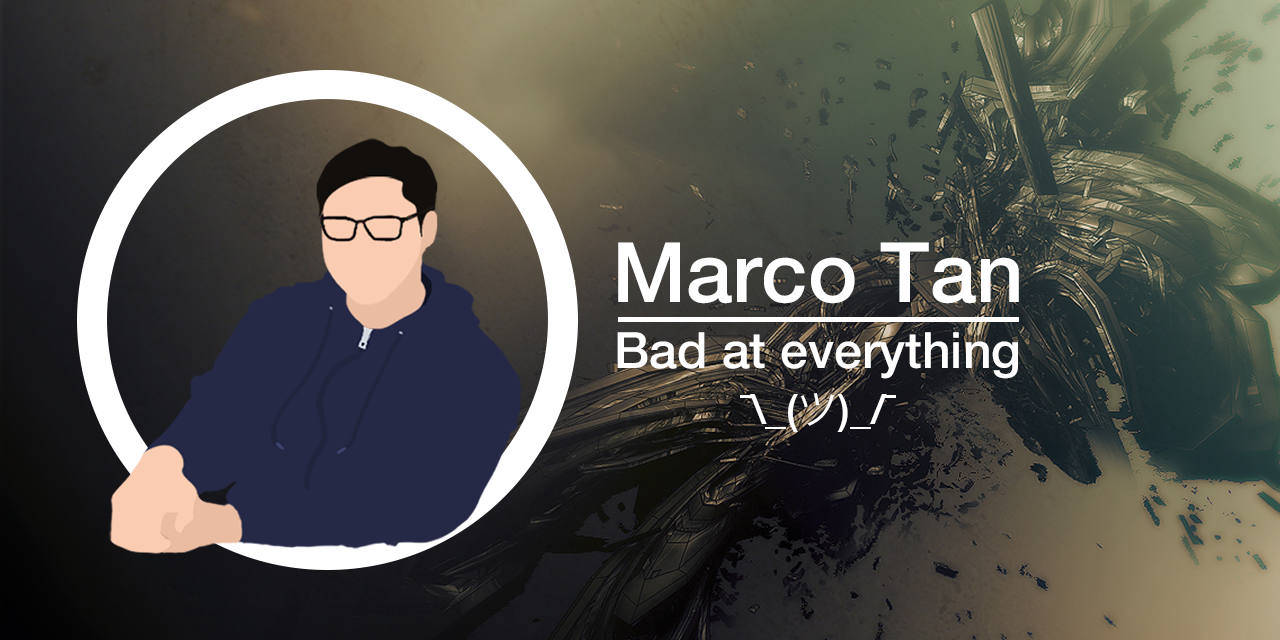
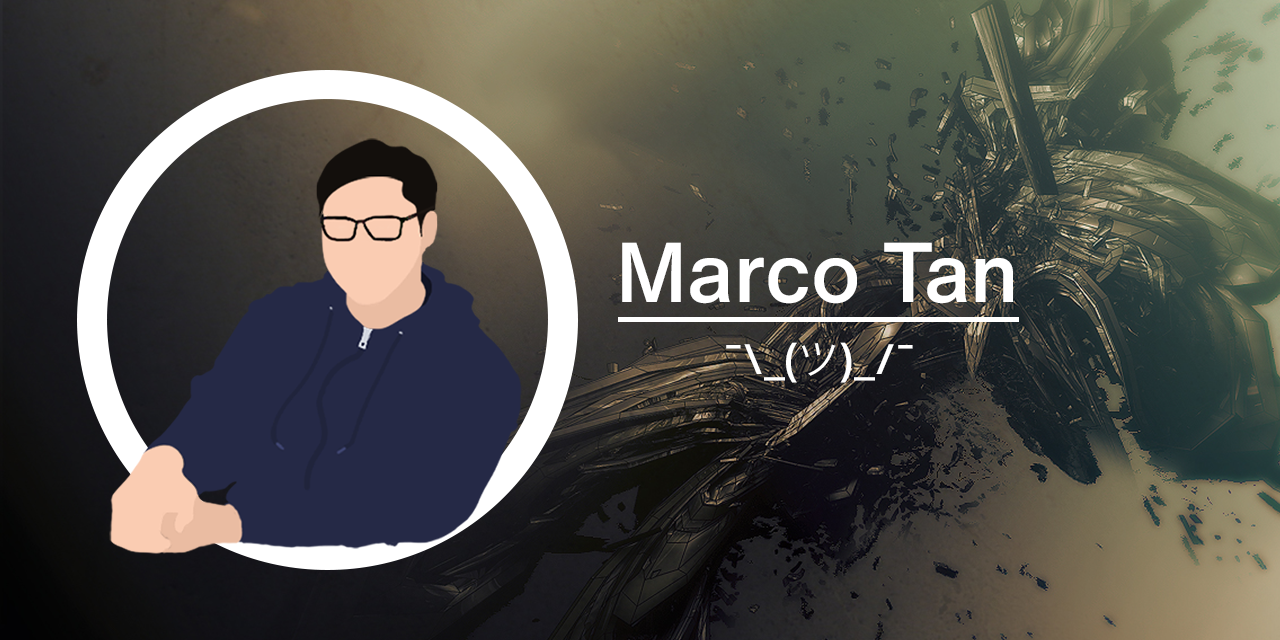
because 'bad at everything' doesn't instill much confidence

Changed region(s): [[0.4688, 0.375, 0.8125, 0.4688], [0.4688, 0.5, 0.8125, 0.5938], [0.5938, 0.625, 0.6875, 0.6875]]

diff --git a/README.md b/README.md
@@ -20,24 +20,22 @@
 
 #  
 
-<h3 align="center">About Me</h3>
+My name's Marco and I'm just your average ~~functionally depressed~~ IB student with a **thorough** interest in **STEM** ~~how original amirite?~~. Though I don't really participate much in open-source projects, I would really like to try it sometime.
 
-<p align="center">💻 I'm just your everyday coding hobbyist. 💻</p>
-<p align="center">🤖 I'm into robotics and automation. 🤖</p>
-<p align="center">🤖 I'm the lead programmer of VRC team 1104A. Check out our team <a href="https://github.com/Discobots-1104A">here</a>. 🤖</p>
-<p align="center">💩 I consistently think my code is garbage. <strike>honestly it probably is</strike> 💩</p>
-<p align="center">🎨 I'm something of a graphics designer myself. 🎨</p>
+Currently, I do systems programming with my Arduino R3 and Due, and for my VRC team as Lead Programmer. Check out my team (1104a) [here](https://github.com/Discobots-1104A)!
+
+*ima go toil over school work and stuff now k thx*
 
 <h3 align="center">Languages and Tools</h3>
 
 <p align="center">
     <img src="https://img.shields.io/badge/-C%2B%2B%20%E2%80%94%20fluent%20-%237c8363?style=for-the-badge&logo=C%2B%2B&logoColor=white">
-    <img src="https://img.shields.io/badge/-C%23%20%E2%80%94%20learning%20-%237c8363?style=for-the-badge&logo=C-sharp&logoColor=white">
+    <img src="https://img.shields.io/badge/-C%20%E2%80%94%20intermediate%20-%237c8363?style=for-the-badge&logo=C&logoColor=white">
+    <img src="https://img.shields.io/badge/-lua%20%E2%80%94%20intermediate%20-%237c8363?style=for-the-badge&logo=lua&logoColor=white">
     <img src="https://img.shields.io/badge/-rust%20%E2%80%94%20learning%20-%237c8363?style=for-the-badge&logo=rust&logoColor=white">
     <br>
     <img src="https://img.shields.io/badge/-git-%237c8363?style=for-the-badge&logo=git&logoColor=white">
     <img src="https://img.shields.io/badge/-GCC%2FG++-%237c8363?style=for-the-badge&logo=gnu&logoColor=white">
-    <img src="https://img.shields.io/badge/-Visual%20Studio-%237c8363?style=for-the-badge&logo=visual-studio&logoColor=white">
     <img src="https://img.shields.io/badge/-Visual%20Studio%20Code-%237c8363?style=for-the-badge&logo=visual-studio-code&logoColor=white">
 </p>
 
